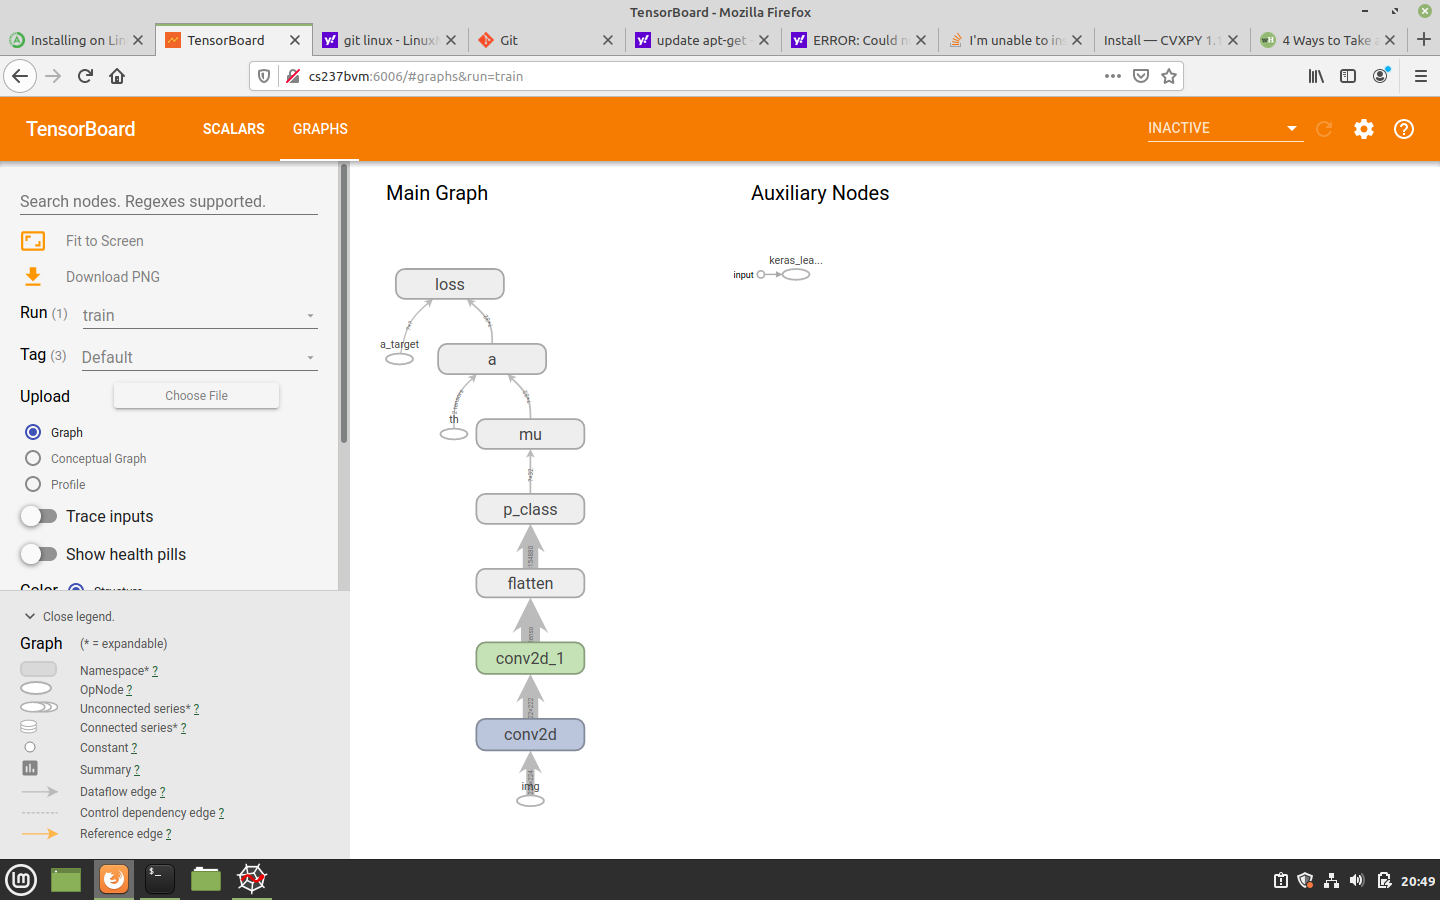
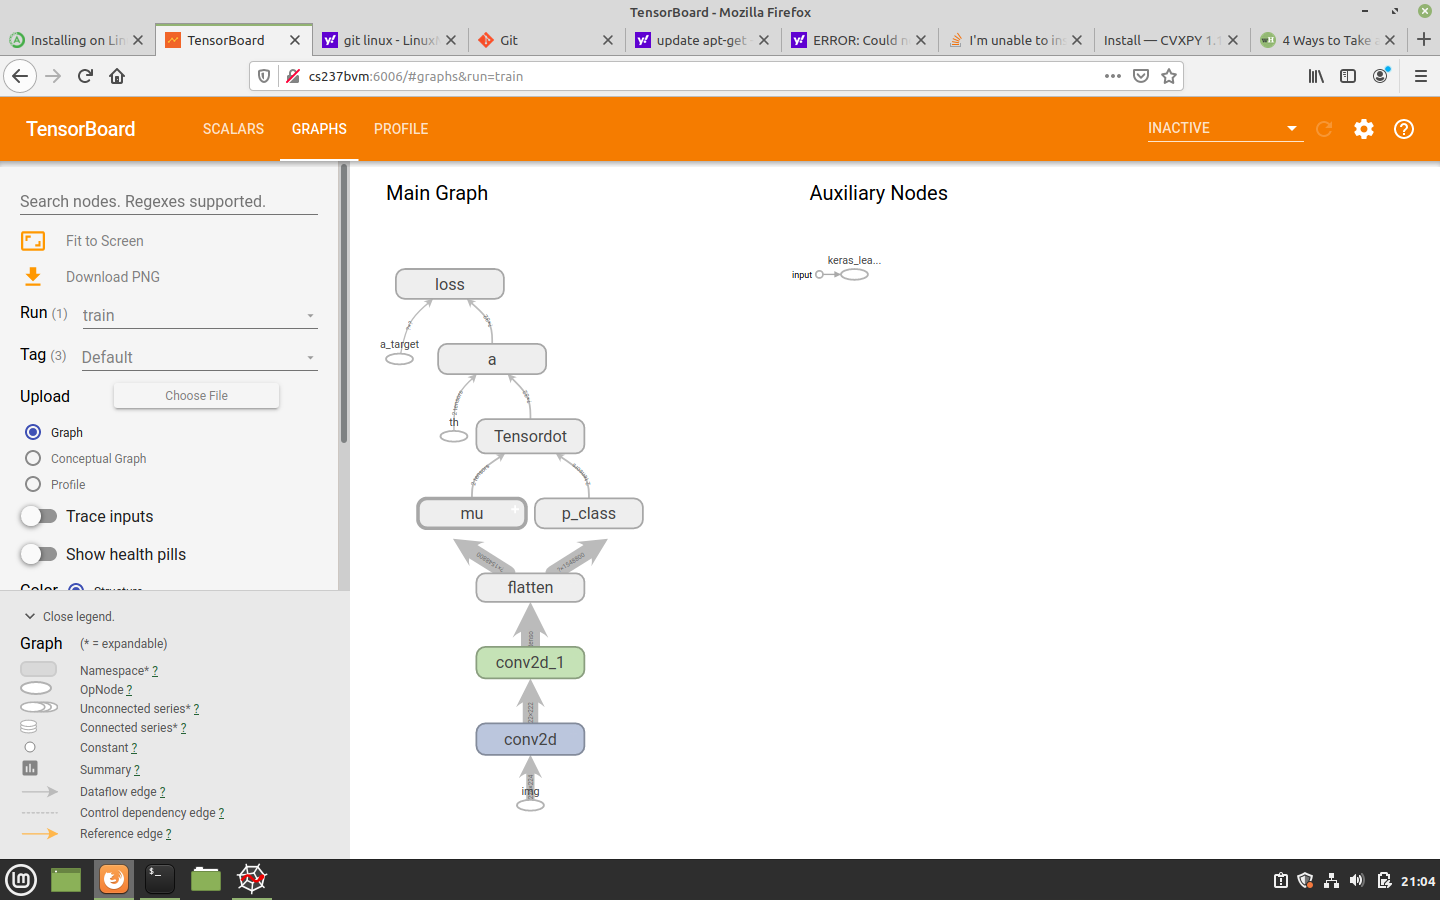
dot product of mu and p, updated screenshot

diff --git a/Problem_3/model.py b/Problem_3/model.py
@@ -66,7 +66,8 @@ def build_model():
     conv2 = tf.keras.layers.Conv2D(32, (3,3), activation = 'softmax')(conv1)
     conv2 = tf.keras.layers.Flatten()(conv2)
     p_class = tf.keras.layers.Dense(32, activation = 'softmax', name='p_class')(conv2)
-    mu = tf.keras.layers.Dense(32, name='mu', activation = 'relu')(conv2)
+    mu_class= tf.keras.layers.Dense(32, name='mu', activation = 'relu')(conv2)
+    mu = tf.tensordot(mu_class, p_class, 1)
     ########## Your code ends here ##########
 
     a_pred = AccelerationLaw(name='a')((mu, th_input))
